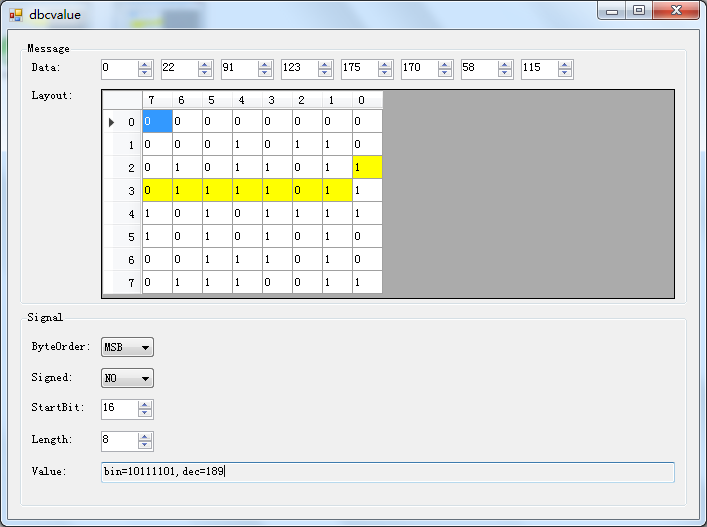
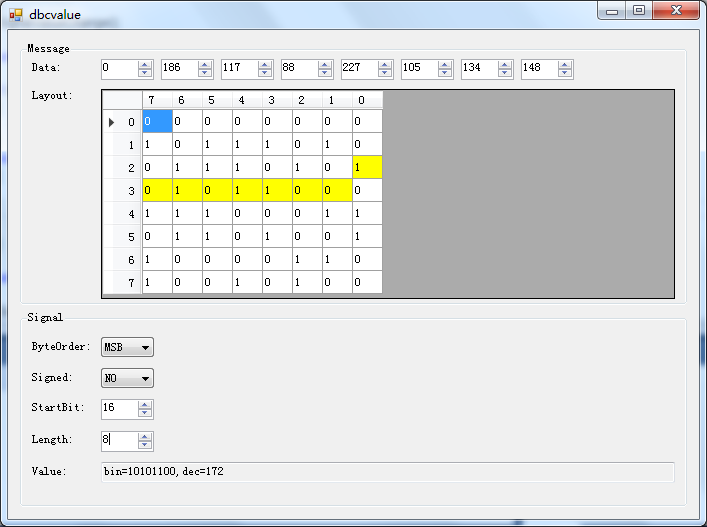
update signed and unsigned screenshort
update signed and unsigned screenshort

diff --git a/README.md b/README.md
@@ -11,3 +11,9 @@ get value from message data according to dbc
 * LSB
 
 ![Image](https://github.com/zhyongquan/dbcvalue/blob/master/dbcvalue/screenshot_lsb.png)
+* unsigned
+
+![Image](https://github.com/zhyongquan/dbcvalue/blob/master/dbcvalue/screenshot_unsigned.png)
+* signed
+
+![Image](https://github.com/zhyongquan/dbcvalue/blob/master/dbcvalue/screenshot_signed.png)
